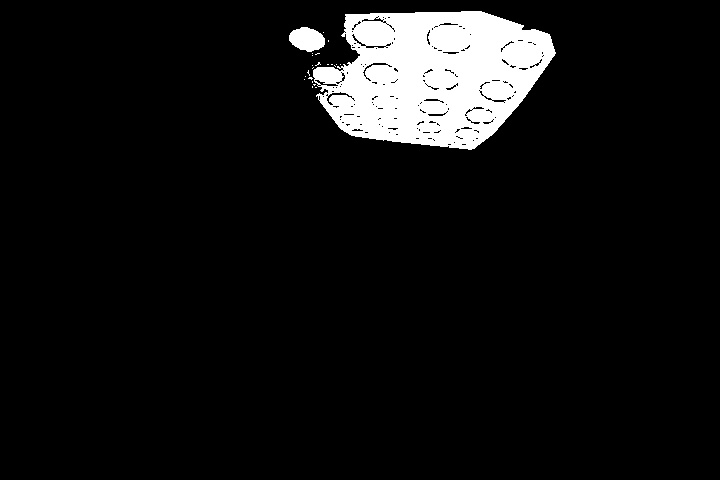
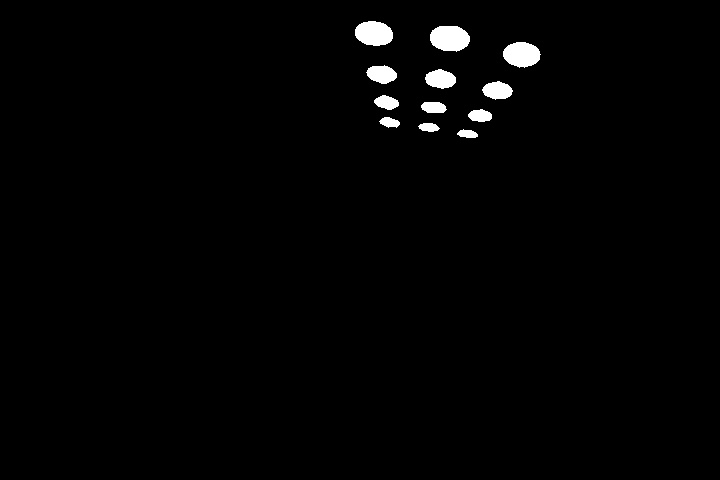
add find blob code

Changed region(s): [[0.3972, 0.0, 0.7944, 0.3125]]

diff --git a/InternalParamCalib/FindCalibBoardROI.cpp b/InternalParamCalib/FindCalibBoardROI.cpp
@@ -62,7 +62,7 @@ void findCalibROI::onMouse( int event, int x, int y, int, void* p)
 
 			self->m_bRButtonDown = true;
 			self->m_vPointList.clear();
-			self->m_vHullPointList.clear();
+			//self->m_vHullPointList.clear();
 
 		}
 		else
@@ -202,7 +202,15 @@ const cv::Mat& findCalibROI::findBlobs()
 	m_mBlobImg.create(2, m_mInputImg.size, m_mInputImg.type());
 	m_mBlobImg = 0;
 	
-	cv::threshold(m_mOutputImg, m_mBlobImg, 255, 255, cv::THRESH_BINARY|cv::THRESH_OTSU);
+	cv::Rect  bRect = cv::boundingRect(m_vHullPointList);//up-right bounding rectangle
+	cv::Mat roiImg(m_mOutputImg, bRect);
+	cv::Mat blobImg(bRect.size(), roiImg.type());
+	//cv::Mat roiMask;
+	//roiImg.create(2, m_mBlobImg.size, CV_8UC1);
+	//roiImg = 0;
+	cv::threshold(roiImg, blobImg, 255, 255, cv::THRESH_BINARY|cv::THRESH_OTSU);
+	cv::Mat roiBImg(m_mBlobImg, bRect);
+	blobImg.copyTo(roiBImg);
 	cv::imwrite("binary.jpg", m_mBlobImg);
 
 	return m_mBlobImg;
